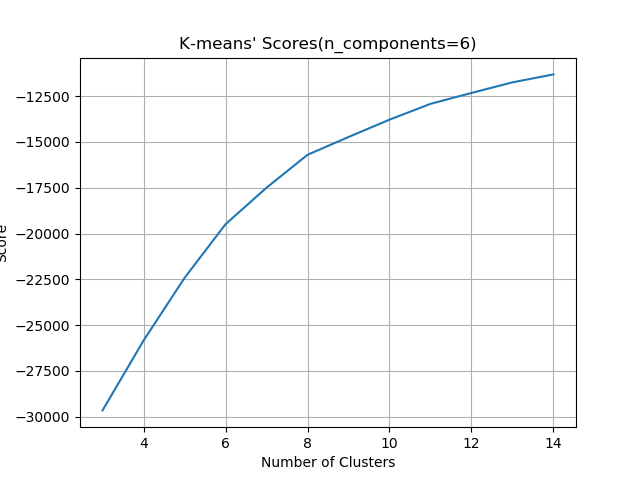
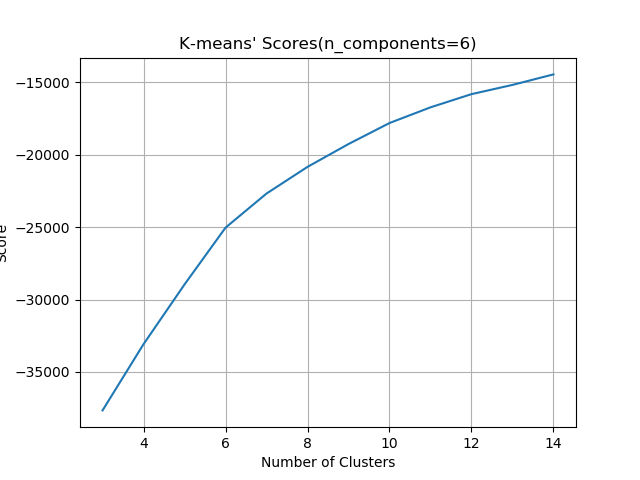
Time: 2019-09-20 21:05:54

diff --git a/3_histClustering.py b/3_histClustering.py
@@ -6,7 +6,7 @@
 @Github: https://github.com/isLouisHsu
 @E-mail: is.louishsu@foxmail.com
 @Date: 2019-09-19 21:22:25
-@LastEditTime: 2019-09-20 18:06:48
+@LastEditTime: 2019-09-20 20:45:31
 @Update: 
 '''
 import os
@@ -18,8 +18,8 @@ from sklearn.mixture import GaussianMixture
 
 n_components = input("Please enter the number of components(default 6): ")
 n_components = 6 if n_components == '' else int(n_components)
-n_clusters   = input("Please enter the number of clusters  (default 5): ")
-n_clusters   = 5 if n_clusters == '' else int(n_clusters)
+n_clusters   = input("Please enter the number of clusters  (default 8): ")
+n_clusters   = 8 if n_clusters == '' else int(n_clusters)
 pipeline = joblib.load("output/model_pca%d_kmeans%d.pkl" % (n_components, n_clusters))
 
 sequences = []
@@ -49,34 +49,50 @@ for i in range(n_classes):
 plt.savefig("images/3_sequences_kmeans.png")
 
 # ------------------------------------------------------------
-## 统计总的序列长度直方图、各类别序列长度直方图
-index = 0
-chosenFeat = features[:, index]
+## 查看峰值速度大于30的运动学片段样例
+index = features[:, 0] > 30
+subseq = sequences[index]; subY = y[index]
+n_sequences = subseq.shape[0]
+nh = int(np.ceil(np.sqrt(n_sequences))); nw = n_sequences // nh + 1
+fig = plt.figure(figsize=(nw * 3, nh * 2))
+for i in range(n_sequences):
+    ax = fig.add_subplot(nw, nh, i // nh * nw + i % nh + 1)
+    if i < subseq.shape[0]:
+        ax.plot(subseq[i], label = 'class %d' % subY[i])
+    ax.legend()
+plt.savefig("images/3_maxSpeed_geq_30_sequences.png")
+
+# ------------------------------------------------------------
+## 构造统计量，统计其长度直方图、与各类别的长度直方图
+def getStatistic(features):
+    return features[:, 0]
+
+statistic = getStatistic(features)
 plt.figure()
 plt.title("Chosen Feature - all")
-plt.xlabel("speed(km/h)")
+plt.xlabel("statistic")
 plt.ylabel("Number")
-plt.xlim(0, chosenFeat.max())
+plt.xlim(0, statistic.max())
 # plt.ylim(0, 350)
-n, bins, patches = plt.hist(chosenFeat, bins=int(chosenFeat.max() - chosenFeat.min()) + 1, facecolor='blue', edgecolor='white')
+n, bins, patches = plt.hist(statistic, bins=int(statistic.max() - statistic.min()) + 1, facecolor='blue', edgecolor='white')
 plt.savefig("images/3_feat_hist.png")
 
 plt.figure(figsize=(5, 10))
 plt.title("Chosen Feature - classes")
 for i in range(n_classes):
-    subChosenFeat = features[y == i][:, index]
+    subStatistic = getStatistic(features[y == i])
     plt.subplot(n_classes, 1, i + 1)
     if i == n_classes - 1:
-        plt.xlabel("speed(km/h)")
+        plt.xlabel("statistic")
     plt.ylabel("Number - class %d" % i)
-    plt.xlim(0, chosenFeat.max())
-    plt.ylim(0, 400)
-    n, bins, patches = plt.hist(subChosenFeat, bins=int(subChosenFeat.max() - subChosenFeat.min()) + 1, facecolor='blue', edgecolor='white')
+    plt.xlim(0, statistic.max())
+    # plt.ylim(0, 250)
+    n, bins, patches = plt.hist(subStatistic, bins=int(subStatistic.max() - subStatistic.min()) + 1, facecolor='blue', edgecolor='white')
 plt.savefig("images/3_feat_hist_subseq.png")
 
 # ------------------------------------------------------------
 ## 删除两种多余的运动学片段，重新计算标签
-deleteClassIndex = [1, 2]   # TODO:
+deleteClassIndex = [3, 5, 6, 7]   # TODO:
 index = np.ones(features.shape[0], dtype=np.bool)
 for idx in deleteClassIndex:
     idx = y != idx
@@ -90,17 +106,18 @@ n_classes = len(set(y))
 # ------------------------------------------------------------
 ## 绘制高斯混合模型曲线
 gmm = GaussianMixture(n_components=n_classes)
-gmm.fit(chosenFeat.reshape(-1, 1))
-n, bins = np.histogram(chosenFeat, bins=int(chosenFeat.max() - chosenFeat.min()) + 1)
+gmm.fit(statistic.reshape(-1, 1))
+n, bins = np.histogram(statistic, bins=int(statistic.max() - statistic.min()) + 1)
+bins = np.r_[0, bins]
 plt.figure()
 plt.title("Chosen Feature - GMM")
-plt.xlabel("speed(km/h)")
+plt.xlabel("statistic")
 # plt.ylim(0, 0.02)
 plt.ylabel("P")
 for i in range(n_classes):
     mu, sigma = gmm.means_[i, 0], gmm.covariances_[i, 0]
     y_ = np.exp(-0.5*np.square((bins-mu)/sigma))/(np.sqrt(2*np.pi)*sigma)
-    plt.plot(bins, y_ * gmm.weights_[i], label="mu=%.2f sigma=%.2f" % (mu, sigma))
+    plt.plot(bins, y_ * gmm.weights_[i], label="class%d, mu=%.2f, sigma=%.2f" % (i, mu, sigma))
     plt.grid(); plt.legend()
 plt.savefig("images/3_feat_hist_GMM.png")
 plt.show()

diff --git a/1_preprocessing.py b/1_preprocessing.py
@@ -6,7 +6,7 @@
 @Github: https://github.com/isLouisHsu
 @E-mail: is.louishsu@foxmail.com
 @Date: 2019-09-19 11:01:14
-@LastEditTime: 2019-09-20 18:09:45
+@LastEditTime: 2019-09-20 20:21:54
 @Update: 
 '''
 import os
@@ -18,11 +18,7 @@ import pywt
 
 from dwt_signal_decomposition import plot_signal_decomp, dwtDecompose
 
-IDLETHRESH = 2.
-MAXSPEEDTHRESH = 5.
-MAXACCABS  = 17
-MINTIME    = 20
-MINRUNTIME = 3
+IDLETHRESH = 1.
 
 def timestamp2unix(timestamp):
     """
@@ -129,8 +125,8 @@ def calFeaturesOfSequence(seq, speedThresh=IDLETHRESH, maxIdle=180, dwtTime=1):
     feature += [n_sec - idxStart]                       # 3, 运行时间(s)
     feature += [n_sec]                                  # 4, 时长(s)
 
-    feature += [np.where(accelerate > 0.)[0].shape[0]]  # 5, 加速时间(s)
-    feature += [np.where(accelerate < 0.)[0].shape[0]]  # 6, 减速时间(s)
+    feature += [np.where(accelerate > 0.)[0].shape[0] / n_sec]  # 5, 加速时间百分比(%)
+    feature += [np.where(accelerate < 0.)[0].shape[0] / n_sec]  # 6, 减速时间百分比(%)
 
     feature += [accelerate.max()]                       # 7, 峰值加速度
     feature += [accelerate.min()]                       # 8, 峰值减速度
@@ -150,12 +146,17 @@ def calFeaturesOfSequence(seq, speedThresh=IDLETHRESH, maxIdle=180, dwtTime=1):
         feature += [temp.mean()]                        # 11, 平均减速度
         feature += [temp.std()]                         # 12, 减速度标准差
         
-    feature += [n_dist]                                 # 距离(m)
-    feature += [idxStart / n_sec]                       # 13, 怠速时间比(%)
-    feature += [n_dist / n_sec]                         # 14, 平均运行速度(m/s)
+    # feature += [n_dist]                                 # 13, 距离(m)
+    feature += [idxStart / n_sec]                       # 14, 怠速时间比(%)
+    feature += [n_dist / n_sec]                         # 15, 平均运行速度(m/s)
     
     feature = np.array(feature)
     return feature
+
+MAXSPEEDTHRESH = 5.
+MAXACCABS  = 17
+MINTIME    = 15
+MINRUNTIME = 4
 
 if __name__ == "__main__":
 
@@ -193,13 +194,13 @@ if __name__ == "__main__":
         gpsSpeedFeat = np.stack(list(map(calFeaturesOfSequence, gpsSpeedSeq)), 0)
         
         # --------------------------------------
-        ## 删除峰值速度小于阈值的序列
-        n_samples = gpsSpeedFeat.shape[0]
-        print("Deleting some sequences...")
-        index = gpsSpeedFeat[:, 0] > MAXSPEEDTHRESH
-        gpsSpeedFeat = gpsSpeedFeat[index]
-        gpsSpeedSeq  = gpsSpeedSeq [index]
-        print("Delete %d samples" % (n_samples - gpsSpeedFeat.shape[0]))
+        # ## 删除峰值速度小于阈值的序列
+        # n_samples = gpsSpeedFeat.shape[0]
+        # print("Deleting some sequences...")
+        # index = gpsSpeedFeat[:, 0] > MAXSPEEDTHRESH
+        # gpsSpeedFeat = gpsSpeedFeat[index]
+        # gpsSpeedSeq  = gpsSpeedSeq [index]
+        # print("Delete %d samples" % (n_samples - gpsSpeedFeat.shape[0]))
 
         ## 删除加速度大于阈值的序列
         n_samples = gpsSpeedFeat.shape[0]

diff --git a/4_splitSpeedIntercal.py b/4_splitSpeedIntercal.py
@@ -6,11 +6,12 @@
 @Github: https://github.com/isLouisHsu
 @E-mail: is.louishsu@foxmail.com
 @Date: 2019-09-20 11:07:51
-@LastEditTime: 2019-09-20 18:05:34
+@LastEditTime: 2019-09-20 21:04:44
 @Update: 
 '''
 import os
 import numpy as np
+from matplotlib import mlab
 from matplotlib import pyplot as plt
 
 sequences = []
@@ -30,16 +31,11 @@ features  = features [index]
 
 # ------------------------------------------------------------------------------------
 totalTime = 1200.
-featLandmarks = [12, 25]   # TODO:
+featLandmarks = [7, 15]   # TODO:
 sumRunTime = np.sum(features[:, 3])                         # 运行时间(s)
 
-## 删除运行时间大于`totalTime`的序列
-index = features[:, 3] <= totalTime
-sequences = sequences[index]
-features  = features [index]
-
 # ------------------------------------------------------------------------------------
-fig = plt.figure(figsize=(12, 12)); plt.title("Runing Time(s)")
+fig = plt.figure(figsize=(15, 12)); plt.title("Runing Time(s)")
 
 T = []; t = []; N = []
 for i in range(len(featLandmarks) + 1):
@@ -57,8 +53,9 @@ for i in range(len(featLandmarks) + 1):
     subFeature  = features [index]
 
     n, bins = np.histogram(subFeature[:, 3], bins=100)
+    bins = (bins[1:] + bins[:-1]) / 2
     freq = n / n.sum()
-    cumFreq = [0] + [np.sum(freq[:i+1]) for i in range(freq.shape[0])]
+    cumFreq = [np.sum(freq[:i+1]) for i in range(freq.shape[0])]
     
     Tk = subFeature[:, 3].sum() / sumRunTime * totalTime    # 当前速度区间，运动片段运行时长之和 / 所有运动片段运行时长之和
     tk = subFeature[:, 3].mean()                            # 当前速度区间，平均运行时长
@@ -66,18 +63,24 @@ for i in range(len(featLandmarks) + 1):
     T += [Tk]; t += [tk]; N += [Nk]
     
     ax = fig.add_subplot(len(featLandmarks) + 1, 2, i * 2 + 1)
-    ax.set_xlabel("time(s)"); ax.set_xticks(bins)
+    ax.set_xlabel("time(s)")
+    ax.set_xticks(bins[::10])
     ax.set_ylabel("frequency(%)")
-    ax.bar(list(range(freq.shape[0])), freq)
+    ax.bar(bins, freq)
+    # ax.bar(bins, n)
     # ax.set_xlim(0, 20)
     ax = fig.add_subplot(len(featLandmarks) + 1, 2, i * 2 + 2)
-    ax.set_xlabel("time(s)"); ax.set_xticks(bins)
+    ax.set_xlabel("time(s)")
+    ax.set_xticks(bins[::10])
     ax.set_ylabel("cumulative frequency(%)")
-    for i in range(Nk): ax.hlines(i / Nk, 0, len(cumFreq), 'r', 'dashed')
-    # ax.vlines(tk, 0, 1, 'r', 'dotted')
-    ax.plot(cumFreq)
+    ax.plot(np.r_[0., bins], np.r_[0, cumFreq])
     ax.grid()
-
+    
+    if Nk == 0: continue
+    g = 1. / Nk; r = np.array([i*g for i in range(Nk)]); r = np.r_[r, 1.]; r = (r[1:] + r[:-1]) / 2
+    for i in range(r.shape[0]): ax.hlines(r[i], 0, bins.max(), 'r', 'dashed')
+    ax.vlines(tk, 0, 1, 'r', 'dashed')
+    
 print(T, t, N)
 
 plt.savefig("images/4_running_time.png")

diff --git a/2_clustering.py b/2_clustering.py
@@ -6,7 +6,7 @@
 @Github: https://github.com/isLouisHsu
 @E-mail: is.louishsu@foxmail.com
 @Date: 2019-09-19 17:58:02
-@LastEditTime: 2019-09-20 17:52:54
+@LastEditTime: 2019-09-20 19:23:53
 @Update: 
 '''
 import os
@@ -77,8 +77,8 @@ plt.savefig("images/2_kmeans.png")
 plt.show()
 
 # ------------------------------------------------------------------
-n_clusters = input("Please enter the number of clusters  (default 5): ")
-n_clusters = 5 if n_clusters == '' else int(n_clusters)
+n_clusters = input("Please enter the number of clusters  (default 8): ")
+n_clusters = 8 if n_clusters == '' else int(n_clusters)
 steps = [
         ('scaler', SCALAR()), 
         ('pca', PCA(n_components=n_components)), 
